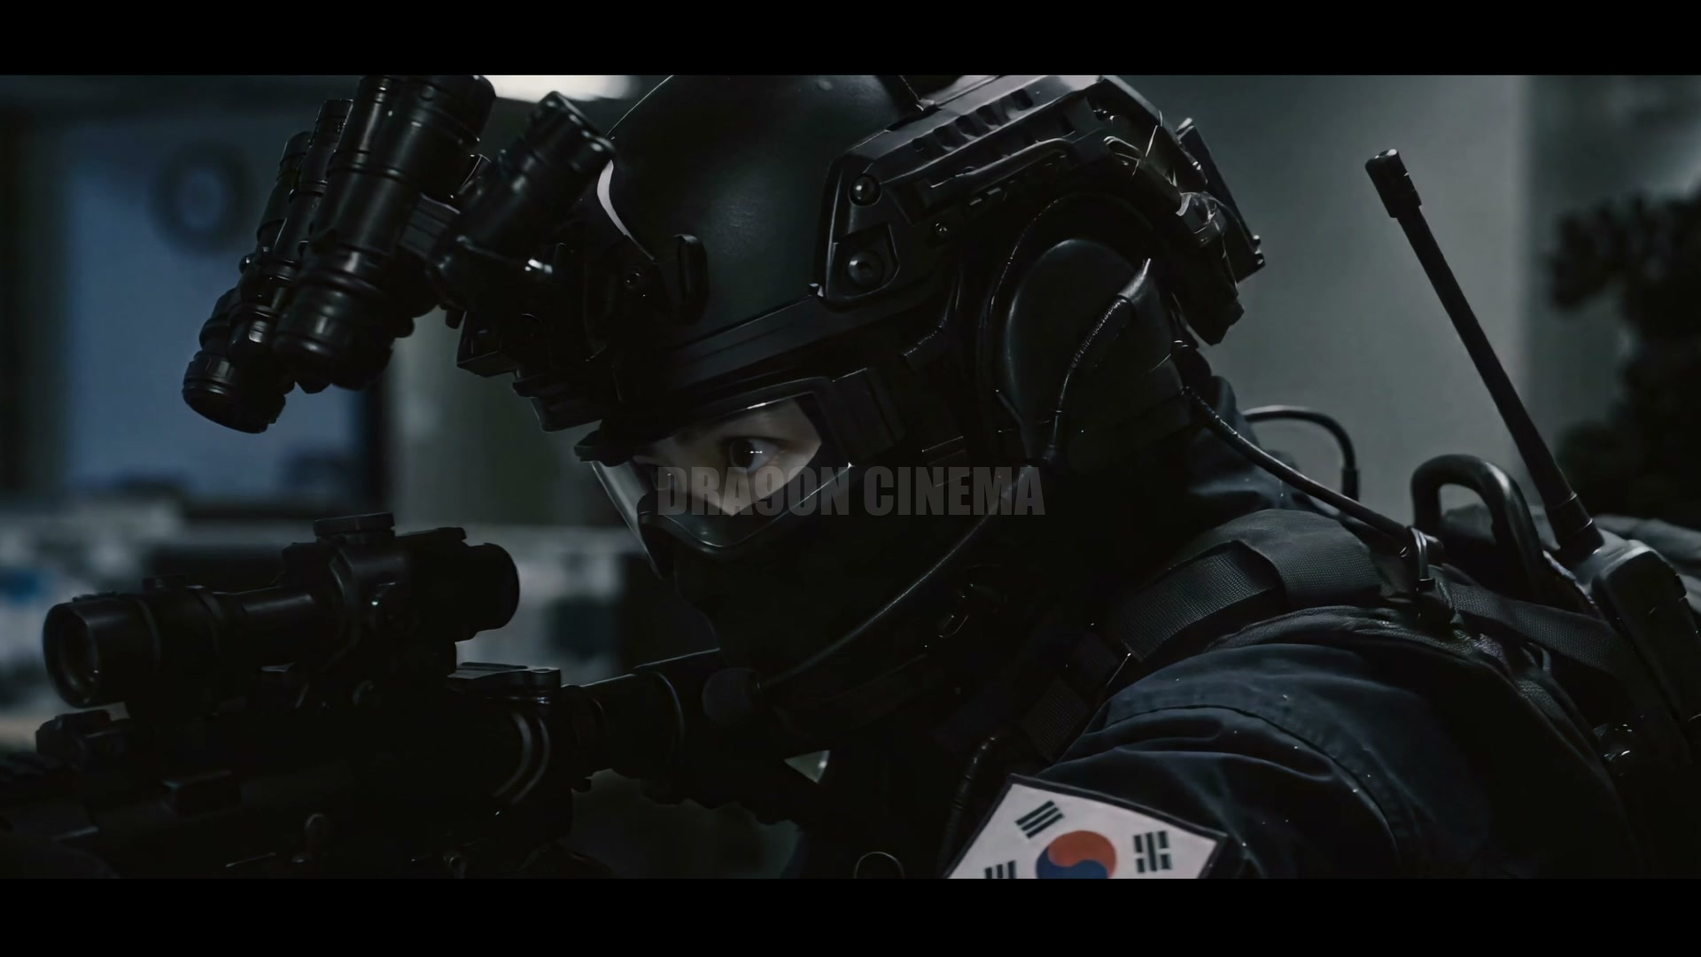
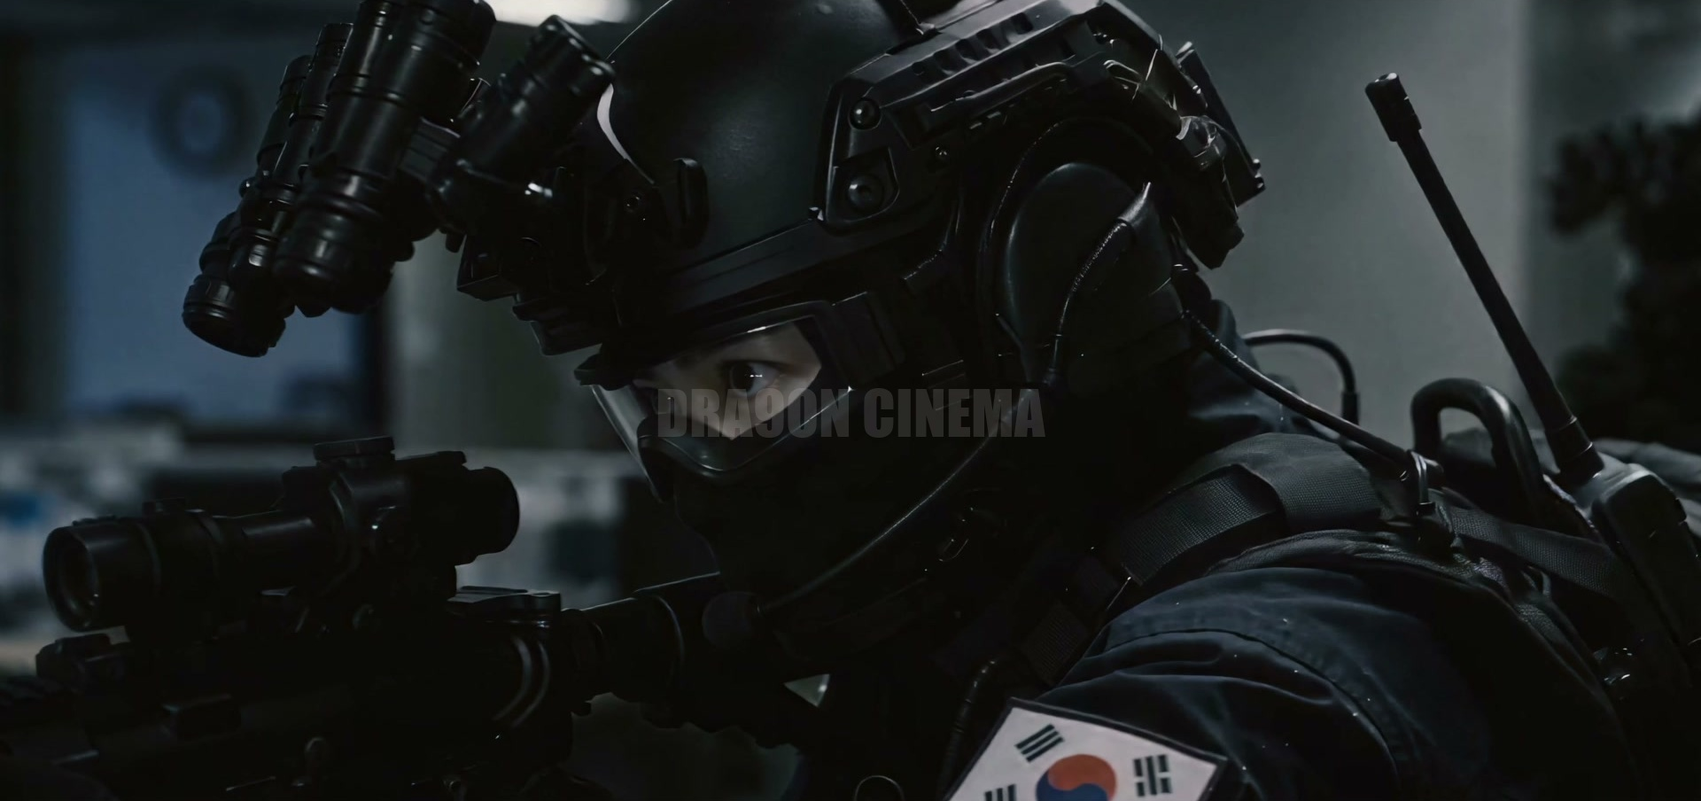
Add private browser continue watching and remove encoded bars from press stills

diff --git a/site-assets/continue-watching.js b/site-assets/continue-watching.js
@@ -1,0 +1,59 @@
+/* Last episode and completion flags stay in this browser. No network ledger. */
+(()=>{
+ 'use strict';
+ const episodes=works=>works.filter(v=>/^s[1-9][0-9]*$/.test(v.category)&&(!v.releaseAt||Date.now()>=Date.parse(v.releaseAt))).sort((a,b)=>a.season-b.season||a.episode-b.episode);
+ function recommend(record,works){
+  const list=episodes(works),last=list.find(v=>v.id===record?.lastId);if(!last)return null;
+  const done=new Set(Array.isArray(record.completed)?record.completed:[]),season=list.filter(v=>v.season===last.season);
+  const nextSeason=list.find(v=>v.season>last.season);
+  if(season.every(v=>done.has(v.id)))return nextSeason?{work:nextSeason,nextSeason:true}:null;
+  if(!done.has(last.id))return {work:last,nextSeason:false};
+  const next=season.find(v=>v.episode>last.episode&&!done.has(v.id))||season.find(v=>!done.has(v.id));
+  return next?{work:next,nextSeason:false}:null;
+ }
+ if(typeof module!=='undefined')module.exports={recommend};
+ if(typeof document==='undefined')return;
+ const KEY='d9-continue-v1',works=window.PORTFOLIO||[],list=episodes(works),byId=new Map(list.map(v=>[v.id,v]));
+ const lang=document.documentElement.lang,labels={ko:{continue:'부터 이어보기',next:'다음 시즌 시작',clear:'이어보기 기록 지우기',done:'이 회차 다 봤어요',saved:'완료로 저장됨',note:'기록은 이 브라우저에만 저장됩니다.'},en:{continue:'Continue from',next:'Start the next season',clear:'Clear continue-watching history',done:'I finished this episode',saved:'Marked as watched',note:'History stays in this browser only.'},ja:{continue:'から続きを見る',next:'次のシーズンへ',clear:'視聴履歴を消去',done:'このエピソードを見終わった',saved:'視聴済みに保存しました',note:'履歴はこのブラウザ内にのみ保存されます。'},es:{continue:'Continuar desde',next:'Empezar la siguiente temporada',clear:'Borrar el historial',done:'Ya vi este episodio',saved:'Marcado como visto',note:'El historial se guarda solo en este navegador.'}};
+ const text=labels[lang]||labels.en;let enabled=true,widget=null,markButton=null,activeId=null;
+ function read(){try{const saved=JSON.parse(localStorage.getItem(KEY));if(saved?.version!==1||!byId.has(saved.lastId))return null;return {version:1,lastId:saved.lastId,completed:[...new Set(Array.isArray(saved.completed)?saved.completed:[])].filter(id=>byId.has(id)).slice(0,120)};}catch{enabled=false;return null;}}
+ let record=read();
+ function write(value){try{localStorage.setItem(KEY,JSON.stringify(value));record=value;return true;}catch{enabled=false;widget?.remove();markButton?.remove();return false;}}
+ function open(id){if(!enabled||!byId.has(id))return;activeId=id;write({version:1,lastId:id,completed:record?.completed||[]});}
+ function complete(id){if(!enabled||!byId.has(id))return;if(write({version:1,lastId:id,completed:[...new Set([...(record?.completed||[]),id])].slice(-120)})&&markButton){markButton.textContent=text.saved;markButton.disabled=true;}}
+ function paintHome(){
+  widget?.remove();if(!enabled||!record)return;const result=recommend(record,works);if(!result)return;
+  const {work,nextSeason}=result;widget=document.createElement('section');widget.className='continue-watching';widget.setAttribute('aria-label',text.continue);
+  const link=document.createElement('a');link.href=work.path;const ep='S'+work.season+' · EP.'+String(work.episode).padStart(2,'0');
+  link.textContent=nextSeason?text.next+' · '+ep:(lang==='ko'||lang==='ja'?ep+text.continue:text.continue+' '+ep);
+  const note=document.createElement('span');note.textContent=text.note;
+  const clear=document.createElement('button');clear.type='button';clear.textContent='×';clear.setAttribute('aria-label',text.clear);
+  clear.addEventListener('click',()=>{try{localStorage.removeItem(KEY);}catch{}record=null;widget.remove();});
+  widget.append(link,note,clear);document.querySelector('main')?.prepend(widget);
+ }
+ if(document.body.dataset.page==='home')paintHome();
+ if(document.body.dataset.page==='watch'&&byId.has(document.body.dataset.id)){
+  open(document.body.dataset.id);
+  if(enabled){markButton=document.createElement('button');markButton.type='button';markButton.className='text-button continue-mark';markButton.textContent=record?.completed.includes(activeId)?text.saved:text.done;markButton.disabled=record?.completed.includes(activeId);markButton.title=text.note;markButton.addEventListener('click',()=>complete(activeId));document.querySelector('.watch-actions')?.append(markButton);}
+ }
+ let apiPromise;const players=new WeakSet();
+ function iframeApi(){
+  if(window.YT?.Player)return Promise.resolve(window.YT);
+  if(!apiPromise)apiPromise=new Promise(resolve=>{const previous=window.onYouTubeIframeAPIReady;window.onYouTubeIframeAPIReady=()=>{if(typeof previous==='function')previous();resolve(window.YT);};const script=document.createElement('script');script.src='https://www.youtube.com/iframe_api';script.onerror=()=>{apiPromise=null;};document.head.append(script);});
+  return apiPromise;
+ }
+ function preparePlayers(){
+  if(!enabled||!window.D9ExternalConsent?.canLoadMedia())return;
+  document.querySelectorAll('iframe[data-external-src]').forEach(frame=>{
+   if(players.has(frame)||!frame.getAttribute('src'))return;
+   let url;try{url=new URL(frame.src);}catch{return;}
+   if(url.hostname!=='www.youtube-nocookie.com')return;const id=url.pathname.split('/').pop();if(!byId.has(id))return;
+   players.add(frame);open(id);if(!frame.id)frame.id='continue-player-'+id;
+   iframeApi().then(YT=>{if(frame.isConnected&&window.D9ExternalConsent?.canLoadMedia())new YT.Player(frame.id,{events:{onStateChange:event=>{if(event.data===YT.PlayerState.ENDED)complete(id);}}});});
+  });
+ }
+ window.addEventListener('d9:external-consent',preparePlayers);
+ new MutationObserver(preparePlayers).observe(document.body,{subtree:true,childList:true,attributes:true,attributeFilter:['src']});
+ window.addEventListener('storage',event=>{if(event.key===KEY){record=read();if(document.body.dataset.page==='home')paintHome();}});
+ preparePlayers();
+})();

diff --git a/site-assets/editorial.css b/site-assets/editorial.css
@@ -1,2 +1,3 @@
-.editorial-main{max-width:1600px;margin:0 auto;padding:140px var(--gutter,5vw) 80px}.editorial-back{display:inline-flex;align-items:center;min-height:44px;font-size:13px;color:#a7a7b0}.editorial-hero{padding:50px 0 70px;border-bottom:1px solid #ffffff26}.editorial-hero h1{font-size:clamp(36px,5vw,74px);line-height:1.18;letter-spacing:-.055em;margin:22px 0 28px;max-width:1100px}.editorial-hero>p:not(.section-eyebrow){max-width:790px;color:#bcbcc6;font-size:17px;line-height:1.9}.editorial-hero .button{margin-top:20px}.editorial-section{padding:62px 0;border-bottom:1px solid #ffffff20}.editorial-section h2{font-size:clamp(25px,3vw,39px);letter-spacing:-.04em;line-height:1.35;margin:16px 0 30px}.editorial-section p{max-width:900px;line-height:1.95;color:#bcbcc6}.season-synopses{display:grid;grid-template-columns:1fr 1fr;gap:50px}.season-synopses h3{font-size:23px;line-height:1.65;margin:16px 0}.editorial-note{font-size:12px!important;color:#9696a3!important}.press-still-grid{display:grid;grid-template-columns:1fr 1fr;gap:32px 24px}.press-still-grid figure,.press-logo-grid figure{margin:0;min-width:0}.press-still-grid img{aspect-ratio:16/9;object-fit:contain;background:#070709;border:1px solid #ffffff1c}.press-still-grid figcaption,.press-logo-grid figcaption{display:flex;justify-content:space-between;align-items:center;gap:15px;font-size:13px;line-height:1.6;color:#c2c2cb;min-height:52px}.press-still-grid a,.press-logo-grid a{display:inline-flex;align-items:center;min-height:44px;white-space:nowrap;text-decoration:underline}.press-logo-grid{display:grid;grid-template-columns:1fr 1fr;gap:24px}.press-logo-grid figure{padding:20px;border:1px solid #ffffff30}.press-logo-grid img{max-height:230px;object-fit:contain}.press-logo-grid .logo-light{background:#f2f1ed}.logo-light figcaption{color:#18181b}.press-metrics{display:grid;grid-template-columns:repeat(3,1fr);gap:24px}.press-metrics div{border-top:1px solid #62626b;padding-top:18px}.press-metrics dt{font-size:13px;color:#aaaab6}.press-metrics dd{margin:10px 0;font-size:13px;color:#b9b9c4}.press-metrics strong{display:block;color:#f1f1f5;font-size:clamp(30px,4vw,54px);font-weight:500;letter-spacing:-.04em}.press-cases{display:grid;grid-template-columns:1fr 1fr;gap:8px 28px}.press-cases>a{display:flex;flex-direction:column;gap:7px;padding:20px 0;border-bottom:1px solid #ffffff15;min-height:44px}.press-cases span{color:#aaaab7;font-size:13px}.press-contact>a{font-size:clamp(19px,3vw,40px);overflow-wrap:anywhere;text-decoration:underline}.footer-links .press-kit-link,.about-links .press-kit-link{font-size:12px;opacity:.8}.sr-only{position:absolute;width:1px;height:1px;padding:0;margin:-1px;overflow:hidden;clip:rect(0,0,0,0);white-space:nowrap;border:0}
+.editorial-main{max-width:1600px;margin:0 auto;padding:140px var(--gutter,5vw) 80px}.editorial-back{display:inline-flex;align-items:center;min-height:44px;font-size:13px;color:#a7a7b0}.editorial-hero{padding:50px 0 70px;border-bottom:1px solid #ffffff26}.editorial-hero h1{font-size:clamp(36px,5vw,74px);line-height:1.18;letter-spacing:-.055em;margin:22px 0 28px;max-width:1100px}.editorial-hero>p:not(.section-eyebrow){max-width:790px;color:#bcbcc6;font-size:17px;line-height:1.9}.editorial-hero .button{margin-top:20px}.editorial-section{padding:62px 0;border-bottom:1px solid #ffffff20}.editorial-section h2{font-size:clamp(25px,3vw,39px);letter-spacing:-.04em;line-height:1.35;margin:16px 0 30px}.editorial-section p{max-width:900px;line-height:1.95;color:#bcbcc6}.season-synopses{display:grid;grid-template-columns:1fr 1fr;gap:50px}.season-synopses h3{font-size:23px;line-height:1.65;margin:16px 0}.editorial-note{font-size:12px!important;color:#9696a3!important}.press-still-grid{display:grid;grid-template-columns:1fr 1fr;gap:32px 24px}.press-still-grid figure,.press-logo-grid figure{margin:0;min-width:0}.press-still-grid img{height:auto;aspect-ratio:auto;object-fit:fill;background:transparent;border:1px solid #ffffff1c}.press-still-grid figcaption,.press-logo-grid figcaption{display:flex;justify-content:space-between;align-items:center;gap:15px;font-size:13px;line-height:1.6;color:#c2c2cb;min-height:52px}.press-still-grid a,.press-logo-grid a{display:inline-flex;align-items:center;min-height:44px;white-space:nowrap;text-decoration:underline}.press-logo-grid{display:grid;grid-template-columns:1fr 1fr;gap:24px}.press-logo-grid figure{padding:20px;border:1px solid #ffffff30}.press-logo-grid img{max-height:230px;object-fit:contain}.press-logo-grid .logo-light{background:#f2f1ed}.logo-light figcaption{color:#18181b}.press-metrics{display:grid;grid-template-columns:repeat(3,1fr);gap:24px}.press-metrics div{border-top:1px solid #62626b;padding-top:18px}.press-metrics dt{font-size:13px;color:#aaaab6}.press-metrics dd{margin:10px 0;font-size:13px;color:#b9b9c4}.press-metrics strong{display:block;color:#f1f1f5;font-size:clamp(30px,4vw,54px);font-weight:500;letter-spacing:-.04em}.press-cases{display:grid;grid-template-columns:1fr 1fr;gap:8px 28px}.press-cases>a{display:flex;flex-direction:column;gap:7px;padding:20px 0;border-bottom:1px solid #ffffff15;min-height:44px}.press-cases span{color:#aaaab7;font-size:13px}.press-contact>a{font-size:clamp(19px,3vw,40px);overflow-wrap:anywhere;text-decoration:underline}.footer-links .press-kit-link,.about-links .press-kit-link{font-size:12px;opacity:.8}.sr-only{position:absolute;width:1px;height:1px;padding:0;margin:-1px;overflow:hidden;clip:rect(0,0,0,0);white-space:nowrap;border:0}
 @media(max-width:650px){.editorial-main{padding-top:110px}.editorial-hero{padding:24px 0 40px}.editorial-hero h1{font-size:39px}.editorial-hero>p:not(.section-eyebrow){font-size:15px}.editorial-section{padding:38px 0}.season-synopses,.press-still-grid,.press-logo-grid,.press-cases{grid-template-columns:1fr;gap:20px}.press-metrics{gap:12px}.press-metrics strong{font-size:27px}.press-still-grid figcaption{font-size:12px}.season-synopses h3{font-size:20px}.editorial-section p{font-size:15px}}
+

diff --git a/site-assets/api-engagement.js b/site-assets/api-engagement.js
@@ -5,7 +5,7 @@
  function paint(node,id){const raw=value(id);if(typeof raw!=='string'||!/^(?:0|[1-9][0-9]*)$/.test(raw)){node.hidden=true;return;}node.hidden=false;node.textContent=(en?'YouTube views ':'YouTube 조회수 ')+raw;node.title=en?'Exact YouTube Data API value · refreshed daily':'YouTube Data API 제공값 · 하루 1회 갱신';}
  window.D9Engagement={
   observeCard(node,id){paint(node,id);},
-  attach(id,frame,container){container.querySelector('.film-engagement')?.remove();const row=document.createElement('div');row.className='film-engagement';paint(row,id);container.append(row);window.D9ExternalConsent?.prepare(frame.parentElement);}
+  attach(id,frame,container){container.querySelector('.film-engagement')?.remove();if(!container.querySelector('.youtube-api-watch')){const row=document.createElement('div');row.className='film-engagement';paint(row,id);container.append(row);}window.D9ExternalConsent?.prepare(frame.parentElement);}
  };
  window.dispatchEvent(new Event('d9-engagement-ready'));
 })();

diff --git a/site-assets/continue-watching.css b/site-assets/continue-watching.css
@@ -1,0 +1,2 @@
+.continue-watching{position:relative;z-index:3;display:flex;align-items:center;gap:18px;padding:14px var(--gutter,5vw);margin-top:140px;background:#1b1b20;border-top:1px solid #ffffff20;border-bottom:1px solid #ffffff26}.continue-watching>a{font-size:15px;font-weight:600;min-height:44px;display:flex;align-items:center;text-decoration:underline;text-underline-offset:5px}.continue-watching>span{font-size:12px;color:#aaaab6;margin-left:auto}.continue-watching>button{height:44px;min-width:44px;background:none;border:1px solid #ffffff38;border-radius:50%;font-size:22px}.continue-watching+.hero .hero-content{padding-top:100px}.continue-mark{min-height:44px;font-size:13px}.continue-mark:disabled{opacity:.7;cursor:default}@media(max-width:650px){.continue-watching{margin-top:132px;gap:4px 10px;flex-wrap:wrap;padding:8px 20px}.continue-watching>a{font-size:14px;flex:1}.continue-watching>span{order:3;flex-basis:100%;margin:0 0 6px}.continue-watching+.hero .hero-content{padding-top:245px}}
+

diff --git a/privacy_page.py b/privacy_page.py
@@ -14,6 +14,7 @@ COPY = [
 ('튜토리얼의 조회수와 프롬프트 카드 복사 횟수는 자료별·날짜별 숫자 합계로 집계합니다. 집계에 방문자 계정·쿠키·고유 브라우저 식별자를 만들지 않습니다. 튜토리얼 식별자, 조회 또는 복사의 종류와 집계 날짜만 사용하며 입력한 글, 복사한 프롬프트 원문, 이름이나 이메일을 통계에 보내지 않습니다. 집계 서버는 연결 처리에 필요한 네트워크 정보를 일시적으로 받을 수 있지만 개인별 이동 기록으로 저장하지 않습니다.', 'Tutorial views and prompt-card copies are counted as numerical totals per tutorial and date. Counting does not create a visitor account, cookie or unique browser identifier. It uses only the tutorial identifier, view or copy event type and counting date; typed text, copied prompt content, names and emails are not sent as analytics. The counting server may temporarily receive network information needed to handle the connection, but does not store it as an individual browsing history.'),
 ('이 값은 조회·복사 이벤트 합계이며 사람 수나 고유 방문자 수가 아닙니다. 재방문·새로고침·반복 복사는 별도 이벤트로 집계될 수 있습니다. 인기순 정렬과 홈의 많이 본 튜토리얼은 이 합계를 사용하며 과거 수치를 추정하거나 임의로 채우지 않습니다. 집계가 연결되지 않았거나 불러오지 못하면 수치를 만들어 표시하지 않습니다.', 'These are view and copy event totals, not people or unique visitors. Repeat visits, refreshes and repeated copies may count as separate events. Popular sorting and the home page’s most-viewed tutorials use these totals, without estimating or inventing historical counts. If counting is not connected or totals cannot be loaded, the site does not fabricate numbers.'),
 ('브라우저 저장소와 이전 데이터', 'Browser storage and previous data'),
+('이어보기는 마지막으로 연 회차의 영상 ID와 시청 완료 표시만 이 브라우저에 저장합니다. 계정·이름·서버의 개인별 시청 기록을 만들지 않습니다. 영상 재생이 끝나거나 직접 완료로 표시하면 다음 회차를 추천하며, 한 시즌을 모두 완료하면 다음 시즌 첫 회차를 안내합니다. 홈의 기록 지우기 버튼이나 브라우저 저장소 삭제로 초기화할 수 있습니다. 저장소를 사용할 수 없는 환경에서는 이어보기를 표시하지 않습니다.', 'Continue watching stores only the last opened episode ID and watched flags in this browser. It creates no account, name or server-side personal viewing history. Finishing playback or marking an episode as watched enables the next-episode recommendation; completing a season recommends the first episode of the next season. Use the clear-history button on the homepage or clear browser storage to reset it. Continue watching is hidden if storage is unavailable.'),
 ('외부 영상 허용·차단 선택은 기능을 위한 로컬 저장소에 최대 180일간 기억합니다. 찜한 작품과 언어 등 사용자가 선택한 설정도 사이트 기능을 위한 저장소를 사용할 수 있습니다. 이 설정을 방문자 추적 식별자로 사용하지 않습니다. 브라우저 저장소를 지우면 선택이 초기화됩니다.', 'Your external-media allow or block choice is remembered in functional local storage for up to 180 days. Saved films and user-selected settings such as language may also use functional storage. These preferences are not used as visitor-tracking identifiers. Clearing browser storage resets them.'),
 ('이전 방식의 _ga 계열 분석 쿠키와 사이트의 이전 분석 동의·방문 집계용 저장소 항목은 전환 시 이 사이트가 접근할 수 있는 범위에서 삭제합니다. 다른 도메인의 쿠키나 서버에 이미 저장된 이전 기록까지 브라우저에서 자동 삭제할 수는 없습니다. 이전 데이터의 열람·삭제 요청은 운영자에게 연락해 주세요. 새 통계는 이전 브라우저 식별자를 재사용하지 않습니다.', 'During migration, the site removes accessible legacy _ga analytics cookies and its previous analytics-choice and visit-counter storage entries. A browser cannot automatically remove other domains’ cookies or records already stored on a server. Contact the operator for access to or deletion of previous records. The new analytics do not reuse previous browser identifiers.'),
 ('외부 영상과 선택 변경', 'External media and changing your choice'),

diff --git a/presskit.py b/presskit.py
@@ -1,5 +1,6 @@
 """Press resources from existing production footage, with no generated stills."""
 from html import escape
+from hashlib import sha256
 import json
 from site_config import ABOUT_PARAGRAPHS, CONTACT_EMAIL
 from collaboration import CASES
@@ -37,10 +38,12 @@ def build_press(out,origin,works,data,head,header,footer):
   content+='<article><span class="section-eyebrow">SEASON '+str(season['season'])+'</span><h3>'+t(*season['logline'])+'</h3><p>'+t(*season['synopsis'])+'</p></article>'
  content+='</div>'
  if WORLD_ENABLED:content+='<a class="text-button" href="/fall-707/world/">'+t('FALL 707 세계관 살펴보기 →','Explore the world of FALL 707 →')+'</a>'
- content+='</section><section class="editorial-section" aria-labelledby="press-stills"><p class="section-eyebrow">03 / PRODUCTION STILLS</p><h2 id="press-stills">'+t('작품 스틸 8장','Eight production stills')+'</h2><p>'+t('시즌 1·2 실제 영상에서 추출한 1920×1080 스틸입니다. 웹용 미리보기와 고화질 JPG를 구분했습니다.','1920×1080 frames extracted from the actual Season 1 and 2 films. Web previews and full-resolution JPG downloads are provided separately.')+'</p><div class="press-still-grid">'
+ content+='</section><section class="editorial-section" aria-labelledby="press-stills"><p class="section-eyebrow">03 / PRODUCTION STILLS</p><h2 id="press-stills">'+t('작품 스틸 8장','Eight production stills')+'</h2><p>'+t('시즌 1·2 실제 영상의 검은 띠를 제거한 스틸입니다. 원본 해상도를 유지하고 각 장면의 실제 비율로 제공합니다.','Frames from the actual Season 1 and 2 films, with encoded black bars removed. Each image keeps its native resolution and actual scene aspect ratio.')+'</p><div class="press-still-grid">'
  for s in stills:
   caption=t(s['caption']['ko'],s['caption']['en']);path='/assets/press/'+s['id']
-  content+=f'<figure><img src="{path}.webp" width="{s["width"]}" height="{s["height"]}" alt="FALL 707 · {caption}" loading="lazy"><figcaption><span>{caption}</span><a href="{path}.jpg" download>JPG ↓ <span class="sr-only">{caption}</span></a></figcaption></figure>'
+  pv=sha256((out/(path.lstrip('/')+'.webp')).read_bytes()).hexdigest()[:12]
+  jv=sha256((out/(path.lstrip('/')+'.jpg')).read_bytes()).hexdigest()[:12]
+  content+=f'<figure><img src="{path}.webp?v={pv}" width="{s["width"]}" height="{s["height"]}" alt="FALL 707 · {caption}" loading="lazy"><figcaption><span>{caption}<br>{s["width"]} × {s["height"]}</span><a href="{path}.jpg?v={jv}" download>JPG ↓ <span class="sr-only">{caption}</span></a></figcaption></figure>'
  content+='</div><p class="editorial-note">'+t('작품 소개·보도·협업 검토를 위한 자료입니다. 저작권은 DRA9ON CINEMA에 있으며, 재편집·상업적 이용은 사전 문의해 주세요.','These materials are for editorial coverage and collaboration review. Copyright belongs to DRA9ON CINEMA. Please contact us before re-editing or commercial use.')+'</p></section>'
  content+='<section class="editorial-section" aria-labelledby="press-logos"><p class="section-eyebrow">04 / WORDMARK</p><h2 id="press-logos">'+t('로고 다운로드','Download logos')+'</h2><div class="press-logo-grid">'
  for variant,cls,label in [('dark-background','logo-dark',t('어두운 배경용','For dark backgrounds')),('light-background','logo-light',t('밝은 배경용','For light backgrounds'))]:
@@ -62,4 +65,8 @@ def build_press(out,origin,works,data,head,header,footer):
  (out/'assets/press/channel-figures.json').write_text(json.dumps(meta,ensure_ascii=False,indent=2),encoding='utf-8')
  from press_pdf import build_pdf
  build_pdf(out,data,stills)
+ pdf_version=sha256((out/'assets/press/dra9on-cinema-press-kit.pdf').read_bytes()).hexdigest()[:12]
+ page=folder/'index.html'
+ page.write_text(page.read_text(encoding='utf-8').replace('dra9on-cinema-press-kit.pdf"','dra9on-cinema-press-kit.pdf?v='+pdf_version+'"'),encoding='utf-8')
+
 

diff --git a/continue_watching.py b/continue_watching.py
@@ -1,0 +1,15 @@
+"""Functional, browser-only episode memory; no server history or identity."""
+from hashlib import sha256
+def inject_continue_watching(out,base_path=''):
+ assets=[]
+ for name in ('continue-watching.js','continue-watching.css'):
+  content=(out/name).read_bytes();stem,ext=name.rsplit('.',1)
+  filename=stem+'.'+sha256(content).hexdigest()[:12]+'.'+ext
+  (out/'assets/build'/filename).write_bytes(content)
+  assets.append(base_path+'/assets/build/'+filename)
+ for page in out.rglob('*.html'):
+  relative=page.relative_to(out).as_posix()
+  if relative.startswith(('en/','ja/','es/')):relative=relative.split('/',1)[1]
+  if relative!='index.html' and not relative.startswith('watch/'):continue
+  text=page.read_text(encoding='utf-8').replace('</head>',f'<script src="{assets[0]}" defer></script><link rel="stylesheet" href="{assets[1]}"></head>',1)
+  page.write_text(text,encoding='utf-8')

diff --git a/build-portfolio.py b/build-portfolio.py
@@ -205,6 +205,8 @@ from tutorial_metrics import inject_metrics
 analytics_configuration=inject_metrics(out,base_path)
 from youtube_site import inject_youtube_counts
 inject_youtube_counts(out,works,data,base_path)
+from continue_watching import inject_continue_watching
+inject_continue_watching(out,base_path)
 
 # Scheduled episodes ship as announcement pages; the browser unlocks at releaseAt.
 release_version = sha256((out/'release.js').read_bytes()).hexdigest()[:12]
